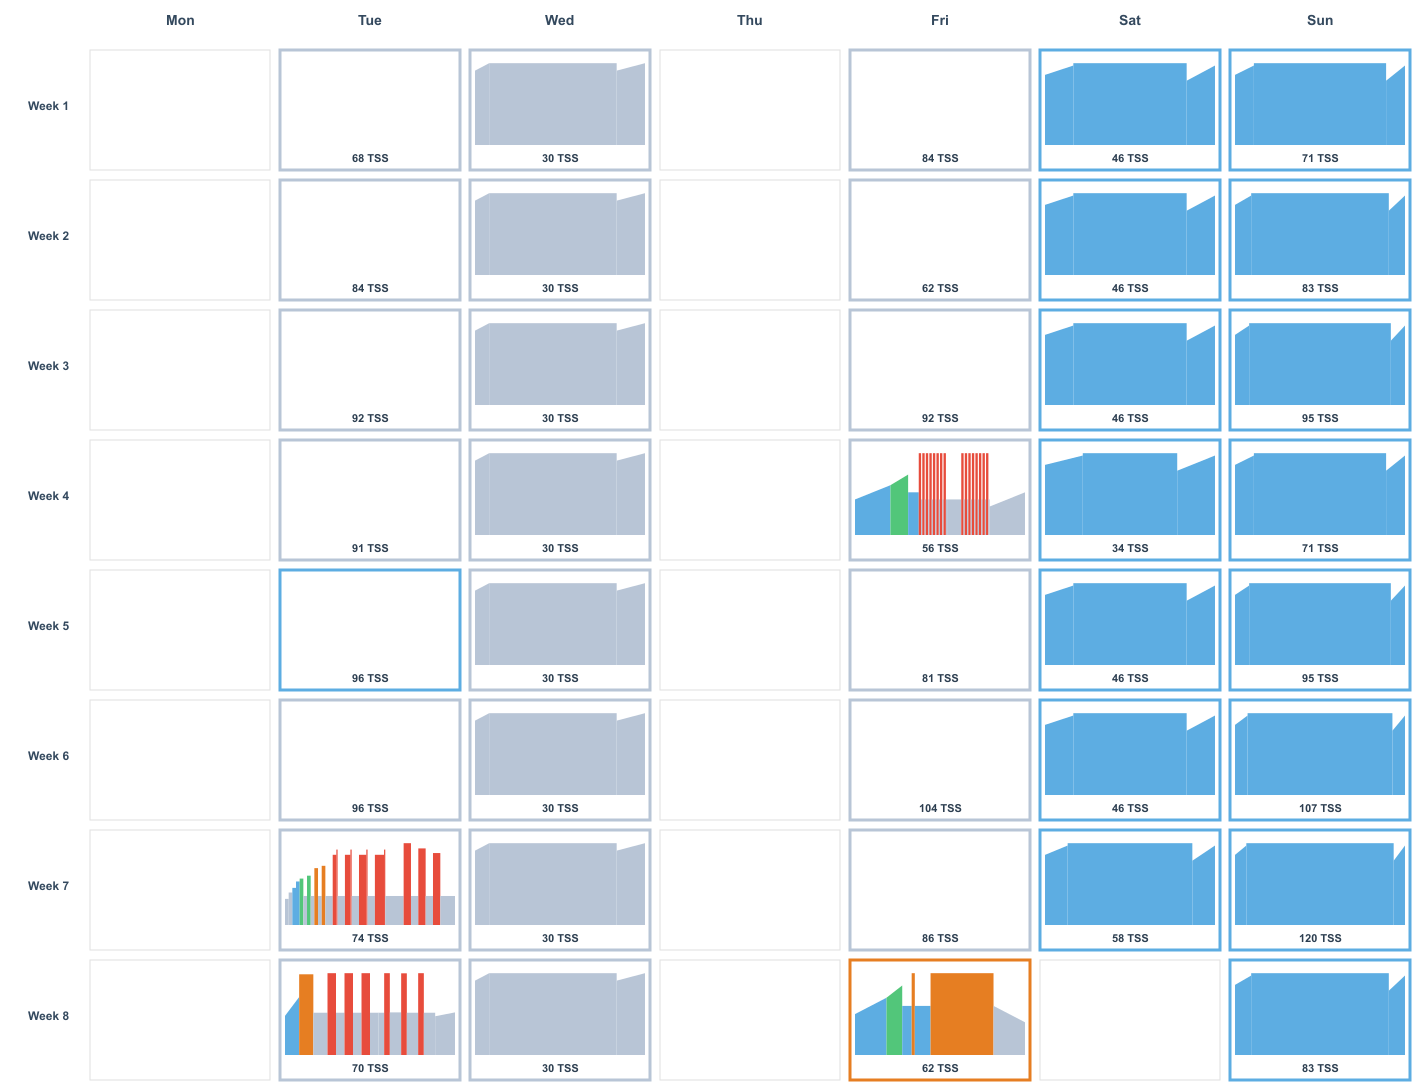
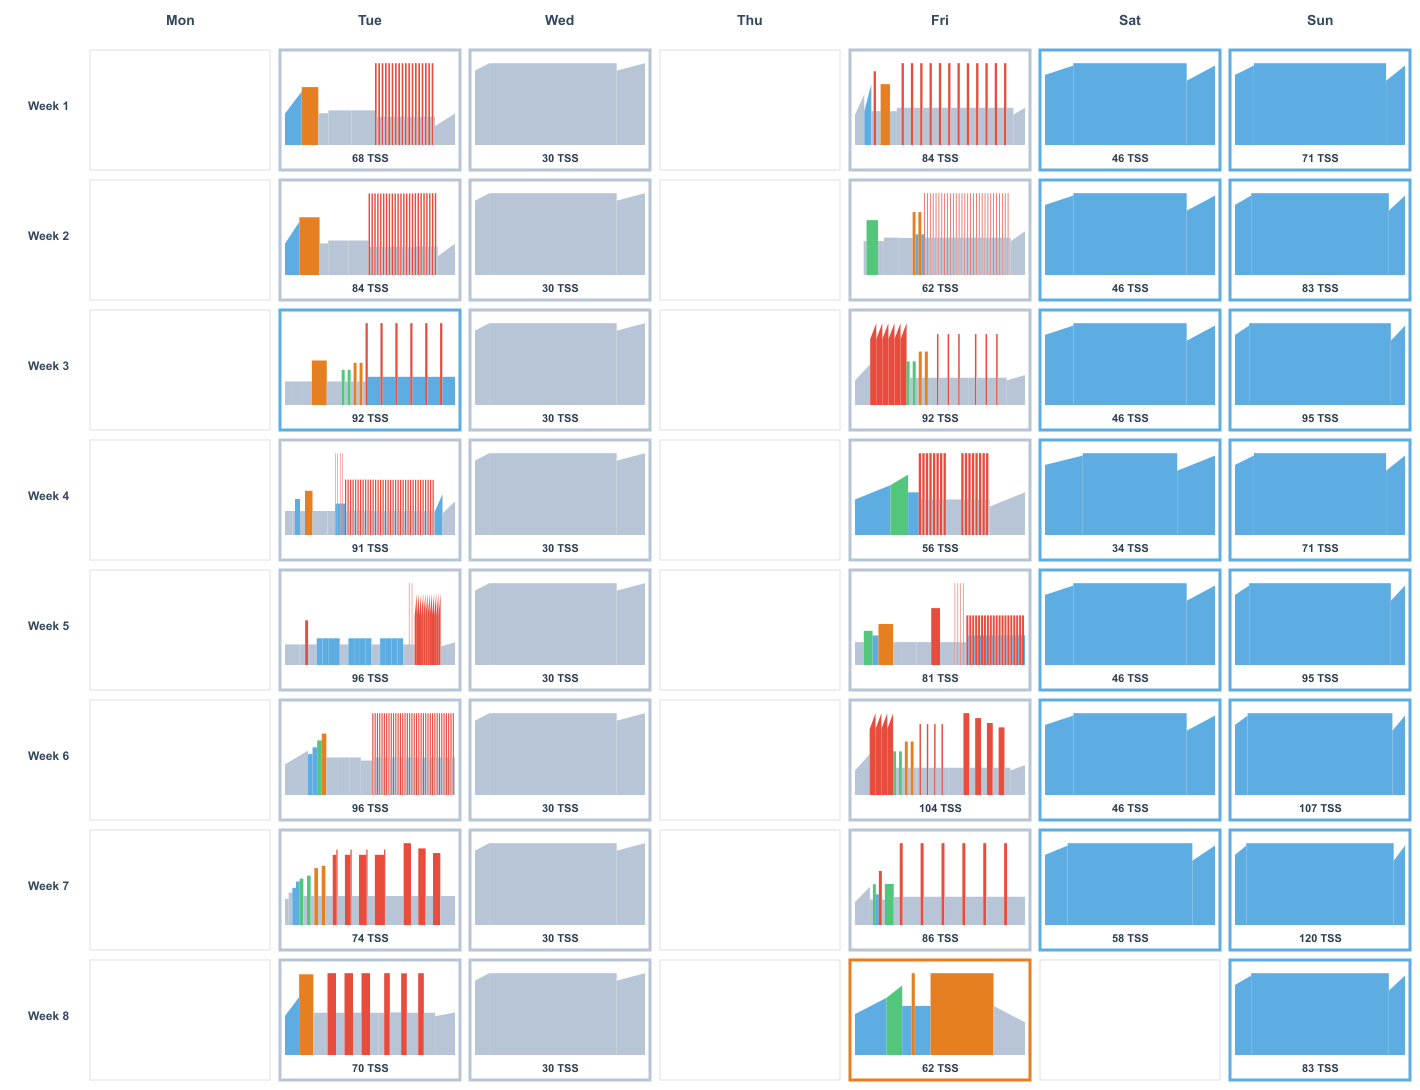
Fix the calendar and the Readme

diff --git a/lib/calendarGenerator.ts b/lib/calendarGenerator.ts
@@ -41,24 +41,42 @@ function getDominantZoneColor(workout: ParsedWorkout): string {
   };
 
   for (const segment of workout.segments) {
-    const duration = segment.duration;
+    if (segment.type === 'intervals') {
+      // For intervals, count ON and OFF periods separately
+      const onDuration = segment.onDuration * segment.repeat;
+      const offDuration = segment.offDuration * segment.repeat;
 
-    let power: number;
-    if (
-      segment.type === 'warmup' ||
-      segment.type === 'cooldown' ||
-      segment.type === 'ramp'
-    ) {
-      power = (segment.powerLow + segment.powerHigh) / 2;
+      if (segment.onPower < 0.6) timeInZone.recovery += onDuration;
+      else if (segment.onPower <= 0.75) timeInZone.endurance += onDuration;
+      else if (segment.onPower <= 0.87) timeInZone.tempo += onDuration;
+      else if (segment.onPower <= 1.05) timeInZone.threshold += onDuration;
+      else timeInZone.vo2max += onDuration;
+
+      if (segment.offPower < 0.6) timeInZone.recovery += offDuration;
+      else if (segment.offPower <= 0.75) timeInZone.endurance += offDuration;
+      else if (segment.offPower <= 0.87) timeInZone.tempo += offDuration;
+      else if (segment.offPower <= 1.05) timeInZone.threshold += offDuration;
+      else timeInZone.vo2max += offDuration;
     } else {
-      power = segment.power;
-    }
+      const duration = segment.duration;
 
-    if (power < 0.6) timeInZone.recovery += duration;
-    else if (power <= 0.75) timeInZone.endurance += duration;
-    else if (power <= 0.87) timeInZone.tempo += duration;
-    else if (power <= 1.05) timeInZone.threshold += duration;
-    else timeInZone.vo2max += duration;
+      let power: number;
+      if (
+        segment.type === 'warmup' ||
+        segment.type === 'cooldown' ||
+        segment.type === 'ramp'
+      ) {
+        power = (segment.powerLow + segment.powerHigh) / 2;
+      } else {
+        power = segment.power;
+      }
+
+      if (power < 0.6) timeInZone.recovery += duration;
+      else if (power <= 0.75) timeInZone.endurance += duration;
+      else if (power <= 0.87) timeInZone.tempo += duration;
+      else if (power <= 1.05) timeInZone.threshold += duration;
+      else timeInZone.vo2max += duration;
+    }
   }
 
   // Find dominant zone
@@ -175,6 +193,7 @@ function drawMiniWorkout(
   const powerLevels = workout.segments.flatMap((seg) => {
     if (seg.type === 'warmup' || seg.type === 'cooldown' || seg.type === 'ramp')
       return [seg.powerLow, seg.powerHigh];
+    if (seg.type === 'intervals') return [seg.onPower, seg.offPower];
     return [seg.power];
   });
   const maxPower = Math.max(...powerLevels) * 1.1;
@@ -190,7 +209,11 @@ function drawMiniWorkout(
 
   for (const segment of workout.segments) {
     const segX = x + chartPadding + (currentTime / totalDuration) * chartWidth;
-    const segWidth = (segment.duration / totalDuration) * chartWidth;
+    const segmentDuration =
+      segment.type === 'intervals'
+        ? (segment.onDuration + segment.offDuration) * segment.repeat
+        : segment.duration;
+    const segWidth = (segmentDuration / totalDuration) * chartWidth;
 
     if (segment.type === 'steady') {
       const power = segment.power;
@@ -199,6 +222,31 @@ function drawMiniWorkout(
 
       ctx.fillStyle = getPowerColor(power);
       ctx.fillRect(segX, segY, segWidth, segHeight);
+    } else if (segment.type === 'intervals') {
+      // Draw intervals as alternating blocks
+      const intervalDuration = segment.onDuration + segment.offDuration;
+      const intervalWidth = (intervalDuration / totalDuration) * chartWidth;
+
+      for (let i = 0; i < segment.repeat; i++) {
+        const intervalX = segX + i * intervalWidth;
+
+        // Draw ON phase
+        const onWidth = (segment.onDuration / totalDuration) * chartWidth;
+        const onHeight = (segment.onPower / maxPower) * chartHeight;
+        const onY = y + chartPadding + chartHeight - onHeight;
+
+        ctx.fillStyle = getPowerColor(segment.onPower);
+        ctx.fillRect(intervalX, onY, onWidth, onHeight);
+
+        // Draw OFF phase
+        const offX = intervalX + onWidth;
+        const offWidth = (segment.offDuration / totalDuration) * chartWidth;
+        const offHeight = (segment.offPower / maxPower) * chartHeight;
+        const offY = y + chartPadding + chartHeight - offHeight;
+
+        ctx.fillStyle = getPowerColor(segment.offPower);
+        ctx.fillRect(offX, offY, offWidth, offHeight);
+      }
     } else {
       // Warmup, cooldown, ramp
       const powerLow = segment.powerLow;
@@ -219,12 +267,15 @@ function drawMiniWorkout(
       ctx.fill();
     }
 
-    currentTime += segment.duration;
+    currentTime += segmentDuration;
   }
 
-  // Draw TSS label
+  // Draw workout info label
   ctx.fillStyle = '#2C3E50';
-  ctx.font = 'bold 11px Arial';
+  ctx.font = 'bold 10px Arial';
   ctx.textAlign = 'center';
-  ctx.fillText(`${Math.round(workout.tss)} TSS`, x + width / 2, y + height - 8);
+
+  const mins = Math.round(workout.duration / 60);
+  const infoText = `${mins}min · ${Math.round(workout.tss)} TSS · IF ${workout.intensityFactor.toFixed(2)}`;
+  ctx.fillText(infoText, x + width / 2, y + height - 8);
 }

diff --git a/lib/readmeGenerator.ts b/lib/readmeGenerator.ts
@@ -69,18 +69,27 @@ export function generateREADME(program: ProgramStructure): void {
 
     const days = Array.from(week.days.entries()).sort((a, b) => a[0] - b[0]);
 
-    for (const [day, workout] of days) {
-      const mins = Math.round(workout.duration / 60);
-      lines.push(
-        `- **Day ${day} (${workout.dayName}):** ${workout.workoutName} - ${Math.round(workout.tss)} TSS, ${mins} min`,
-      );
+    // Table header
+    lines.push('| Day | Workout | Details |');
+    lines.push('| --- | ------- | ------- |');
 
-      // Link to image
+    for (const [_day, workout] of days) {
+      const mins = Math.round(workout.duration / 60);
       const imageFilename = workout.filename.replace('.zwo', '.png');
+
+      // Format workout name with image
+      const workoutCell = `**${workout.workoutName}**<br/><img src="images/individual/${imageFilename}" width="300">`;
+
+      // Format details
+      const detailsLines = [
+        `• ${mins} min · ${Math.round(workout.tss)} TSS · IF ${workout.intensityFactor.toFixed(2)}`,
+      ];
+
+      const detailsCell = detailsLines.join('<br/>');
+
       lines.push(
-        `  ![${workout.workoutName}](images/individual/${imageFilename})`,
+        `| **${workout.dayName}** | ${workoutCell} | ${detailsCell} |`,
       );
-      lines.push('');
     }
 
     lines.push('');

diff --git a/programs/8_weeks_road_builder/README.md b/programs/8_weeks_road_builder/README.md
@@ -31,158 +31,96 @@
 
 **Weekly Total:** 386 TSS, 6.8 hours
 
-- **Day 2 (Tuesday):** controlled-30-30-s-1 - 68 TSS, 51 min
-  ![controlled-30-30-s-1](images/individual/W01-D2-Tuesday-controlled-30-30-s-1.png)
-
-- **Day 3 (Wednesday):** Recovery Easy - 30 TSS, 60 min
-  ![Recovery Easy](images/individual/W01-D3-Wednesday-Recovery_Easy.png)
-
-- **Day 5 (Friday):** anaerobic-endurance-2 - 84 TSS, 73 min
-  ![anaerobic-endurance-2](images/individual/W01-D5-Friday-anaerobic-endurance-2.png)
-
-- **Day 6 (Saturday):** Easy Z2 - 46 TSS, 60 min
-  ![Easy Z2](images/individual/W01-D6-Saturday-Easy_Z2.png)
-
-- **Day 7 (Sunday):** Long Endurance - 71 TSS, 90 min
-  ![Long Endurance](images/individual/W01-D7-Sunday-Long_Endurance.png)
-
+| Day | Workout | Details |
+| --- | ------- | ------- |
+| **Tuesday** | **controlled-30-30-s-1**<br/><img src="images/individual/W01-D2-Tuesday-controlled-30-30-s-1.png" width="300"> | • 51 min · 68 TSS · IF 0.89 |
+| **Wednesday** | **Recovery Easy**<br/><img src="images/individual/W01-D3-Wednesday-Recovery_Easy.png" width="300"> | • 60 min · 30 TSS · IF 0.54 |
+| **Friday** | **anaerobic-endurance-2**<br/><img src="images/individual/W01-D5-Friday-anaerobic-endurance-2.png" width="300"> | • 73 min · 84 TSS · IF 0.83 |
+| **Saturday** | **Easy Z2**<br/><img src="images/individual/W01-D6-Saturday-Easy_Z2.png" width="300"> | • 60 min · 46 TSS · IF 0.68 |
+| **Sunday** | **Long Endurance**<br/><img src="images/individual/W01-D7-Sunday-Long_Endurance.png" width="300"> | • 90 min · 71 TSS · IF 0.69 |
 
 ### Week 2
 
 **Weekly Total:** 305 TSS, 5.7 hours
 
-- **Day 2 (Tuesday):** controlled-30-30-s-2 - 84 TSS, 59 min
-  ![controlled-30-30-s-2](images/individual/W02-D2-Tuesday-controlled-30-30-s-2.png)
-
-- **Day 3 (Wednesday):** Recovery Easy - 30 TSS, 60 min
-  ![Recovery Easy](images/individual/W02-D3-Wednesday-Recovery_Easy.png)
-
-- **Day 5 (Friday):** neuromuscular-power-surges-2 - 62 TSS, 59 min
-  ![neuromuscular-power-surges-2](images/individual/W2-D5-Friday-neuromuscular-power-surges-2.png)
-
-- **Day 6 (Saturday):** Easy Z2 - 46 TSS, 60 min
-  ![Easy Z2](images/individual/W02-D6-Saturday-Easy_Z2.png)
-
-- **Day 7 (Sunday):** Long Endurance - 83 TSS, 105 min
-  ![Long Endurance](images/individual/W02-D7-Sunday-Long_Endurance.png)
-
+| Day | Workout | Details |
+| --- | ------- | ------- |
+| **Tuesday** | **controlled-30-30-s-2**<br/><img src="images/individual/W02-D2-Tuesday-controlled-30-30-s-2.png" width="300"> | • 59 min · 84 TSS · IF 0.92 |
+| **Wednesday** | **Recovery Easy**<br/><img src="images/individual/W02-D3-Wednesday-Recovery_Easy.png" width="300"> | • 60 min · 30 TSS · IF 0.54 |
+| **Friday** | **neuromuscular-power-surges-2**<br/><img src="images/individual/W2-D5-Friday-neuromuscular-power-surges-2.png" width="300"> | • 59 min · 62 TSS · IF 0.80 |
+| **Saturday** | **Easy Z2**<br/><img src="images/individual/W02-D6-Saturday-Easy_Z2.png" width="300"> | • 60 min · 46 TSS · IF 0.68 |
+| **Sunday** | **Long Endurance**<br/><img src="images/individual/W02-D7-Sunday-Long_Endurance.png" width="300"> | • 105 min · 83 TSS · IF 0.69 |
 
 ### Week 3
 
 **Weekly Total:** 441 TSS, 7.0 hours
 
-- **Day 2 (Tuesday):** hiit-45sec-1 - 92 TSS, 57 min
-  ![hiit-45sec-1](images/individual/W03-D2-Tuesday-hiit-45sec-1.png)
-
-- **Day 3 (Wednesday):** Recovery Easy - 30 TSS, 60 min
-  ![Recovery Easy](images/individual/W03-D3-Wednesday-Recovery_Easy.png)
-
-- **Day 5 (Friday):** power-intervals-1 - 92 TSS, 56 min
-  ![power-intervals-1](images/individual/W03-D5-Friday-power-intervals-1.png)
-
-- **Day 6 (Saturday):** Easy Z2 - 46 TSS, 60 min
-  ![Easy Z2](images/individual/W03-D6-Saturday-Easy_Z2.png)
-
-- **Day 7 (Sunday):** Long Endurance - 95 TSS, 120 min
-  ![Long Endurance](images/individual/W03-D7-Sunday-Long_Endurance.png)
-
+| Day | Workout | Details |
+| --- | ------- | ------- |
+| **Tuesday** | **hiit-45sec-1**<br/><img src="images/individual/W03-D2-Tuesday-hiit-45sec-1.png" width="300"> | • 57 min · 92 TSS · IF 0.98 |
+| **Wednesday** | **Recovery Easy**<br/><img src="images/individual/W03-D3-Wednesday-Recovery_Easy.png" width="300"> | • 60 min · 30 TSS · IF 0.54 |
+| **Friday** | **power-intervals-1**<br/><img src="images/individual/W03-D5-Friday-power-intervals-1.png" width="300"> | • 56 min · 92 TSS · IF 0.99 |
+| **Saturday** | **Easy Z2**<br/><img src="images/individual/W03-D6-Saturday-Easy_Z2.png" width="300"> | • 60 min · 46 TSS · IF 0.68 |
+| **Sunday** | **Long Endurance**<br/><img src="images/individual/W03-D7-Sunday-Long_Endurance.png" width="300"> | • 120 min · 95 TSS · IF 0.69 |
 
 ### Week 4
 
 **Weekly Total:** 369 TSS, 6.3 hours
 
-- **Day 2 (Tuesday):** 30-30-s-anaerobic-3 - 91 TSS, 68 min
-  ![30-30-s-anaerobic-3](images/individual/W04-D2-Tuesday-30-30-s-anaerobic-3.png)
-
-- **Day 3 (Wednesday):** Recovery Easy - 30 TSS, 60 min
-  ![Recovery Easy](images/individual/W04-D3-Wednesday-Recovery_Easy.png)
-
-- **Day 5 (Friday):** VO2max 40 20s Recovery - 56 TSS, 48 min
-  ![VO2max 40 20s Recovery](images/individual/W04-D5-Friday-VO2max_40_20s_Recovery.png)
-
-- **Day 6 (Saturday):** Easy Z2 - 34 TSS, 45 min
-  ![Easy Z2](images/individual/W04-D6-Saturday-Easy_Z2.png)
-
-- **Day 7 (Sunday):** Long Endurance - 71 TSS, 90 min
-  ![Long Endurance](images/individual/W04-D7-Sunday-Long_Endurance.png)
-
+| Day | Workout | Details |
+| --- | ------- | ------- |
+| **Tuesday** | **30-30-s-anaerobic-3**<br/><img src="images/individual/W04-D2-Tuesday-30-30-s-anaerobic-3.png" width="300"> | • 68 min · 91 TSS · IF 0.90 |
+| **Wednesday** | **Recovery Easy**<br/><img src="images/individual/W04-D3-Wednesday-Recovery_Easy.png" width="300"> | • 60 min · 30 TSS · IF 0.54 |
+| **Friday** | **VO2max 40 20s Recovery**<br/><img src="images/individual/W04-D5-Friday-VO2max_40_20s_Recovery.png" width="300"> | • 48 min · 56 TSS · IF 0.84 |
+| **Saturday** | **Easy Z2**<br/><img src="images/individual/W04-D6-Saturday-Easy_Z2.png" width="300"> | • 45 min · 34 TSS · IF 0.67 |
+| **Sunday** | **Long Endurance**<br/><img src="images/individual/W04-D7-Sunday-Long_Endurance.png" width="300"> | • 90 min · 71 TSS · IF 0.69 |
 
 ### Week 5
 
 **Weekly Total:** 348 TSS, 6.0 hours
 
-- **Day 2 (Tuesday):** intensive-capacity-2 - 96 TSS, 59 min
-  ![intensive-capacity-2](images/individual/W05-D2-Tuesday-intensive-capacity-2.png)
-
-- **Day 3 (Wednesday):** Recovery Easy - 30 TSS, 60 min
-  ![Recovery Easy](images/individual/W05-D3-Wednesday-Recovery_Easy.png)
-
-- **Day 5 (Friday):** 40-20-s-2 - 81 TSS, 58 min
-  ![40-20-s-2](images/individual/W05-D5-Friday-40-20-s-2.png)
-
-- **Day 6 (Saturday):** Easy Z2 - 46 TSS, 60 min
-  ![Easy Z2](images/individual/W05-D6-Saturday-Easy_Z2.png)
-
-- **Day 7 (Sunday):** Long Endurance - 95 TSS, 120 min
-  ![Long Endurance](images/individual/W05-D7-Sunday-Long_Endurance.png)
-
+| Day | Workout | Details |
+| --- | ------- | ------- |
+| **Tuesday** | **intensive-capacity-2**<br/><img src="images/individual/W05-D2-Tuesday-intensive-capacity-2.png" width="300"> | • 59 min · 96 TSS · IF 0.99 |
+| **Wednesday** | **Recovery Easy**<br/><img src="images/individual/W05-D3-Wednesday-Recovery_Easy.png" width="300"> | • 60 min · 30 TSS · IF 0.54 |
+| **Friday** | **40-20-s-2**<br/><img src="images/individual/W05-D5-Friday-40-20-s-2.png" width="300"> | • 58 min · 81 TSS · IF 0.92 |
+| **Saturday** | **Easy Z2**<br/><img src="images/individual/W05-D6-Saturday-Easy_Z2.png" width="300"> | • 60 min · 46 TSS · IF 0.68 |
+| **Sunday** | **Long Endurance**<br/><img src="images/individual/W05-D7-Sunday-Long_Endurance.png" width="300"> | • 120 min · 95 TSS · IF 0.69 |
 
 ### Week 6
 
 **Weekly Total:** 383 TSS, 6.5 hours
 
-- **Day 2 (Tuesday):** 12min-30-30-s-2 - 96 TSS, 74 min
-  ![12min-30-30-s-2](images/individual/W06-D2-Tuesday-12min-30-30-s-2.png)
-
-- **Day 3 (Wednesday):** Recovery Easy - 30 TSS, 60 min
-  ![Recovery Easy](images/individual/W06-D3-Wednesday-Recovery_Easy.png)
-
-- **Day 5 (Friday):** power-intervals-3 - 104 TSS, 58 min
-  ![power-intervals-3](images/individual/W06-D5-Friday-power-intervals-3.png)
-
-- **Day 6 (Saturday):** Easy Z2 - 46 TSS, 60 min
-  ![Easy Z2](images/individual/W06-D6-Saturday-Easy_Z2.png)
-
-- **Day 7 (Sunday):** Long Endurance - 107 TSS, 135 min
-  ![Long Endurance](images/individual/W06-D7-Sunday-Long_Endurance.png)
-
+| Day | Workout | Details |
+| --- | ------- | ------- |
+| **Tuesday** | **12min-30-30-s-2**<br/><img src="images/individual/W06-D2-Tuesday-12min-30-30-s-2.png" width="300"> | • 74 min · 96 TSS · IF 0.88 |
+| **Wednesday** | **Recovery Easy**<br/><img src="images/individual/W06-D3-Wednesday-Recovery_Easy.png" width="300"> | • 60 min · 30 TSS · IF 0.54 |
+| **Friday** | **power-intervals-3**<br/><img src="images/individual/W06-D5-Friday-power-intervals-3.png" width="300"> | • 58 min · 104 TSS · IF 1.04 |
+| **Saturday** | **Easy Z2**<br/><img src="images/individual/W06-D6-Saturday-Easy_Z2.png" width="300"> | • 60 min · 46 TSS · IF 0.68 |
+| **Sunday** | **Long Endurance**<br/><img src="images/individual/W06-D7-Sunday-Long_Endurance.png" width="300"> | • 135 min · 107 TSS · IF 0.69 |
 
 ### Week 7
 
 **Weekly Total:** 368 TSS, 6.5 hours
 
-- **Day 2 (Tuesday):** pace-is-the-trick - 74 TSS, 46 min
-  ![pace-is-the-trick](images/individual/W07-D2-Tuesday-pace-is-the-trick.png)
-
-- **Day 3 (Wednesday):** Recovery Easy - 30 TSS, 60 min
-  ![Recovery Easy](images/individual/W07-D3-Wednesday-Recovery_Easy.png)
-
-- **Day 5 (Friday):** extensive-anaerobic-6-x-1min - 86 TSS, 57 min
-  ![extensive-anaerobic-6-x-1min](images/individual/W07-D5-Friday-extensive-anaerobic-6-x-1min.png)
-
-- **Day 6 (Saturday):** Easy Z2 - 58 TSS, 75 min
-  ![Easy Z2](images/individual/W07-D6-Saturday-Easy_Z2.png)
-
-- **Day 7 (Sunday):** Long Endurance - 120 TSS, 150 min
-  ![Long Endurance](images/individual/W07-D7-Sunday-Long_Endurance.png)
-
+| Day | Workout | Details |
+| --- | ------- | ------- |
+| **Tuesday** | **pace-is-the-trick**<br/><img src="images/individual/W07-D2-Tuesday-pace-is-the-trick.png" width="300"> | • 46 min · 74 TSS · IF 0.98 |
+| **Wednesday** | **Recovery Easy**<br/><img src="images/individual/W07-D3-Wednesday-Recovery_Easy.png" width="300"> | • 60 min · 30 TSS · IF 0.54 |
+| **Friday** | **extensive-anaerobic-6-x-1min**<br/><img src="images/individual/W07-D5-Friday-extensive-anaerobic-6-x-1min.png" width="300"> | • 57 min · 86 TSS · IF 0.95 |
+| **Saturday** | **Easy Z2**<br/><img src="images/individual/W07-D6-Saturday-Easy_Z2.png" width="300"> | • 75 min · 58 TSS · IF 0.68 |
+| **Sunday** | **Long Endurance**<br/><img src="images/individual/W07-D7-Sunday-Long_Endurance.png" width="300"> | • 150 min · 120 TSS · IF 0.69 |
 
 ### Week 8
 
 **Weekly Total:** 324 TSS, 5.8 hours
 
-- **Day 2 (Tuesday):** vo2max-climbing-1 - 70 TSS, 60 min
-  ![vo2max-climbing-1](images/individual/W08-D2-Tuesday-vo2max-climbing-1.png)
-
-- **Day 3 (Wednesday):** Recovery Easy - 30 TSS, 60 min
-  ![Recovery Easy](images/individual/W08-D3-Wednesday-Recovery_Easy.png)
-
-- **Day 5 (Friday):** FTP Test 20min - 62 TSS, 54 min
-  ![FTP Test 20min](images/individual/W08-D5-Friday-FTP_Test_20min.png)
-
-- **Day 7 (Sunday):** Long Endurance - 83 TSS, 105 min
-  ![Long Endurance](images/individual/W08-D7-Sunday-Long_Endurance.png)
-
+| Day | Workout | Details |
+| --- | ------- | ------- |
+| **Tuesday** | **vo2max-climbing-1**<br/><img src="images/individual/W08-D2-Tuesday-vo2max-climbing-1.png" width="300"> | • 60 min · 70 TSS · IF 0.84 |
+| **Wednesday** | **Recovery Easy**<br/><img src="images/individual/W08-D3-Wednesday-Recovery_Easy.png" width="300"> | • 60 min · 30 TSS · IF 0.54 |
+| **Friday** | **FTP Test 20min**<br/><img src="images/individual/W08-D5-Friday-FTP_Test_20min.png" width="300"> | • 54 min · 62 TSS · IF 0.83 |
+| **Sunday** | **Long Endurance**<br/><img src="images/individual/W08-D7-Sunday-Long_Endurance.png" width="300"> | • 105 min · 83 TSS · IF 0.69 |
 
 ## Usage
 
